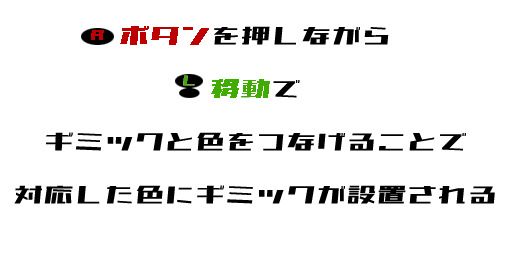
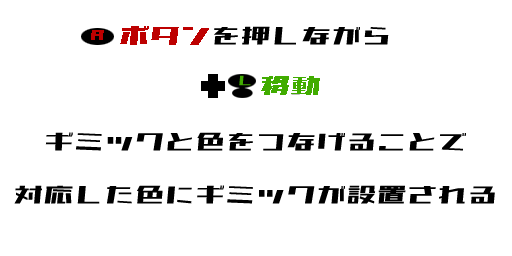
チュートリアルのUIを一部変更/タイミングを初めてプレイしたときに

Changed region(s): [[0.3438, 0.2812, 0.625, 0.4062]]

diff --git a/2025年前期/GameSources/GameManager.cpp b/2025年前期/GameSources/GameManager.cpp
@@ -187,7 +187,10 @@ namespace basecross{
 				{
 					auto menu = m_Stage->GetChileStageVec()[0];
 					auto backBoardUI = menu->AddGameObject<Sprite>(L"ResultBackBoardUI", Vec3(0.0f, 0.0f, 0.0f), Vec2(600, 600), Anchor::Center);
+					backBoardUI->SetLayer(10);
 					auto starCoverUI = menu->AddGameObject<Sprite>(L"StarCoverUI", Vec3(0.0f, 0.0f, 0.0f), Vec2(600, 180), Anchor::Center);
+					starCoverUI->SetLayer(10);
+
 					m_EffectSprite.push_back(backBoardUI);
 					m_EffectSprite.push_back(starCoverUI);
 					effect->EffectDelete();
@@ -208,10 +211,12 @@ namespace basecross{
 				auto starUI = menu->AddGameObject<Sprite>(L"StarUI", Vec3(-200, 0.0f, 0.0f), Vec2(200, 180), Anchor::Center);
 				starUI->SetDiffuse(Col4(1.0f, 1.0f, 1.0f, 0.0f));
 				starUI->CreateAnimationUV(Vec2(3, 1));
+				starUI->SetLayer(11);
 
 				auto evaluationUI = menu->AddGameObject<Sprite>(L"EvaluationUI", Vec3(0.0f, 0.0f, 0.0f), Vec2(500.0f, 78.0f), Anchor::Top);
 				evaluationUI->SetDiffuse(Col4(1.0f, 1.0f, 1.0f, 1.0f));
 				evaluationUI->CreateAnimationUV(Vec2(1, 3));
+				evaluationUI->SetLayer(11);
 
 				if (i == 1)
 				{

diff --git a/2025年前期/GameSources/TutorialManager.h b/2025年前期/GameSources/TutorialManager.h
@@ -20,6 +20,10 @@ namespace basecross{
 		void Update();
 		void End();
 
+		bool IsActive() {
+			return m_CurrentStep != nullptr;
+		}
+
 		void RegisterStep(const wstring& name, const shared_ptr<TutorialStep>& step);
 	};
 
@@ -35,9 +39,12 @@ namespace basecross{
 		Vec2 m_WindowSize;
 		Vec3 m_Position;
 		wstring m_ExplainKey;
+
+		float m_DrawDelayTime;
+		float m_DelayTimer;
 	public:
-		TutorialStep(const shared_ptr<Stage>& ptr,const wstring& explain = L"",Vec3 position = Vec3(), float width = 100, float height = 100) : m_Stage(ptr),
-			m_IsCompleted(false), m_ExplainKey(explain),
+		TutorialStep(const shared_ptr<Stage>& ptr,const wstring& explain = L"",Vec3 position = Vec3(), float width = 100, float height = 100,float delayTime = 0.0f) : m_Stage(ptr),
+			m_IsCompleted(false), m_ExplainKey(explain), m_DelayTimer(0.0f), m_DrawDelayTime(delayTime),
 			m_Position(position),m_WindowSize(width, height){ }
 		virtual ~TutorialStep(){}
 

diff --git a/2025年前期/GameSources/Menu.cpp b/2025年前期/GameSources/Menu.cpp
@@ -124,13 +124,16 @@ namespace basecross{
 			make_shared<PutGimmickTutorial>(m_MenuStage,
 				array<shared_ptr<Sprite>,2>{ m_GimmickIcons[0],m_ColorPalette[1] },
 				1.0f,1.0f));
+
+		TutorialManager::GetInstance().Start(L"sample");
+
 	}
 	void GameMenu::OnUpdate() {
 		auto& input = InputManager::GetInputManager();
 		auto& gameManager = GameManager::GetInstance();
 
 		if (!gameManager.CompareState(GameState::Put))return;
-
+		if (TutorialManager::GetInstance().IsActive()) return;
 		
 		if (!m_PoseMenu->IsOpen()) {
 			if (input->GetDownButton(gameManager.GetKeyConfig(L"undo")) && m_Lines.size() > 0) {
@@ -221,7 +224,6 @@ namespace basecross{
 					}
 					m_Lines.push_back({ m_CurrentLine,pair<int,int>{m_ColorHandle,m_GimmickHandle} });
 					SoundManager::GetInstance().PlaySE(L"Put");
-					TutorialManager::GetInstance().Start(L"sample");
 				}
 				else {
 					m_MenuStage->RemoveGameObject<Sprite>(m_CurrentLine);

diff --git a/2025年前期/GameSources/TutorialManager.cpp b/2025年前期/GameSources/TutorialManager.cpp
@@ -30,6 +30,7 @@ namespace basecross{
 	}
 
 	void TutorialManager::RegisterStep(const wstring& name, const shared_ptr<TutorialStep>& step) {
+		if (m_StepMap.find(name) != m_StepMap.end()) return;
 		m_StepMap[name] = step;
 	}
 
@@ -38,13 +39,8 @@ namespace basecross{
 		m_Window->SetLayer(10);
 		m_Explain = m_Stage->AddGameObject<Sprite>(m_ExplainKey, m_Position, m_WindowSize * 0.85f, Anchor::Center);
 		m_Explain->SetLayer(11);
-
-		Vec2 closeIconPosition = m_Window->GetAnchorPosition(Anchor::BottomRight);
 		
-		m_CloseIcon = m_Stage->AddGameObject<Sprite>(L"ICON_ARROW",
-			Vec3(closeIconPosition.x, closeIconPosition.y, 0),
-			Vec2(m_WindowSize.x / 3.0f, closeIconPosition.y / 10.0f),
-			Anchor::BottomRight);
+		m_CloseIcon = m_Stage->AddGameObject<Sprite>(L"TUTORIAL_CLOSE",m_Position,m_WindowSize * 0.85f,Anchor::Center);
 		m_CloseIcon->SetLayer(10);
 
 	}

diff --git a/2025年前期/GameSources/Player.cpp b/2025年前期/GameSources/Player.cpp
@@ -82,6 +82,7 @@ namespace basecross{
 			m_TeleportTimer += elapsed;
 			if (m_TeleportTimer > m_TeleportTime) {
 				position = m_TelepoteTarget;
+				SetDrawActive(true);
 				m_CurrentHeight = position.y;
 				if (m_AfterTeloprotTime > 0) {
 					m_TeleportTime = m_AfterTeloprotTime;

diff --git a/2025年前期/GameSources/Gimmick.cpp b/2025年前期/GameSources/Gimmick.cpp
@@ -357,6 +357,7 @@ namespace basecross{
 		{
 			// 踏んだ瞬間だけ処理
 			Vec3 pos = m_Transform->GetPosition();
+			m_Cube->SetDrawActive(false);
 			m_Cube->Telepote(pos + m_Value, 0.7f, 0.3f); // Cube側は単純な移動だけでOK
 
 			// エフェクト開始

diff --git a/2025年前期/GameSources/GameStage.cpp b/2025年前期/GameSources/GameStage.cpp
@@ -78,5 +78,8 @@ namespace basecross {
 		GameManager::GetInstance().Update();
 		TutorialManager::GetInstance().Update();
 	}
+	void GameStage::OnDestroy() {
+		SoundManager::GetInstance().StopAll();
+	}
 }
 //end basecross
